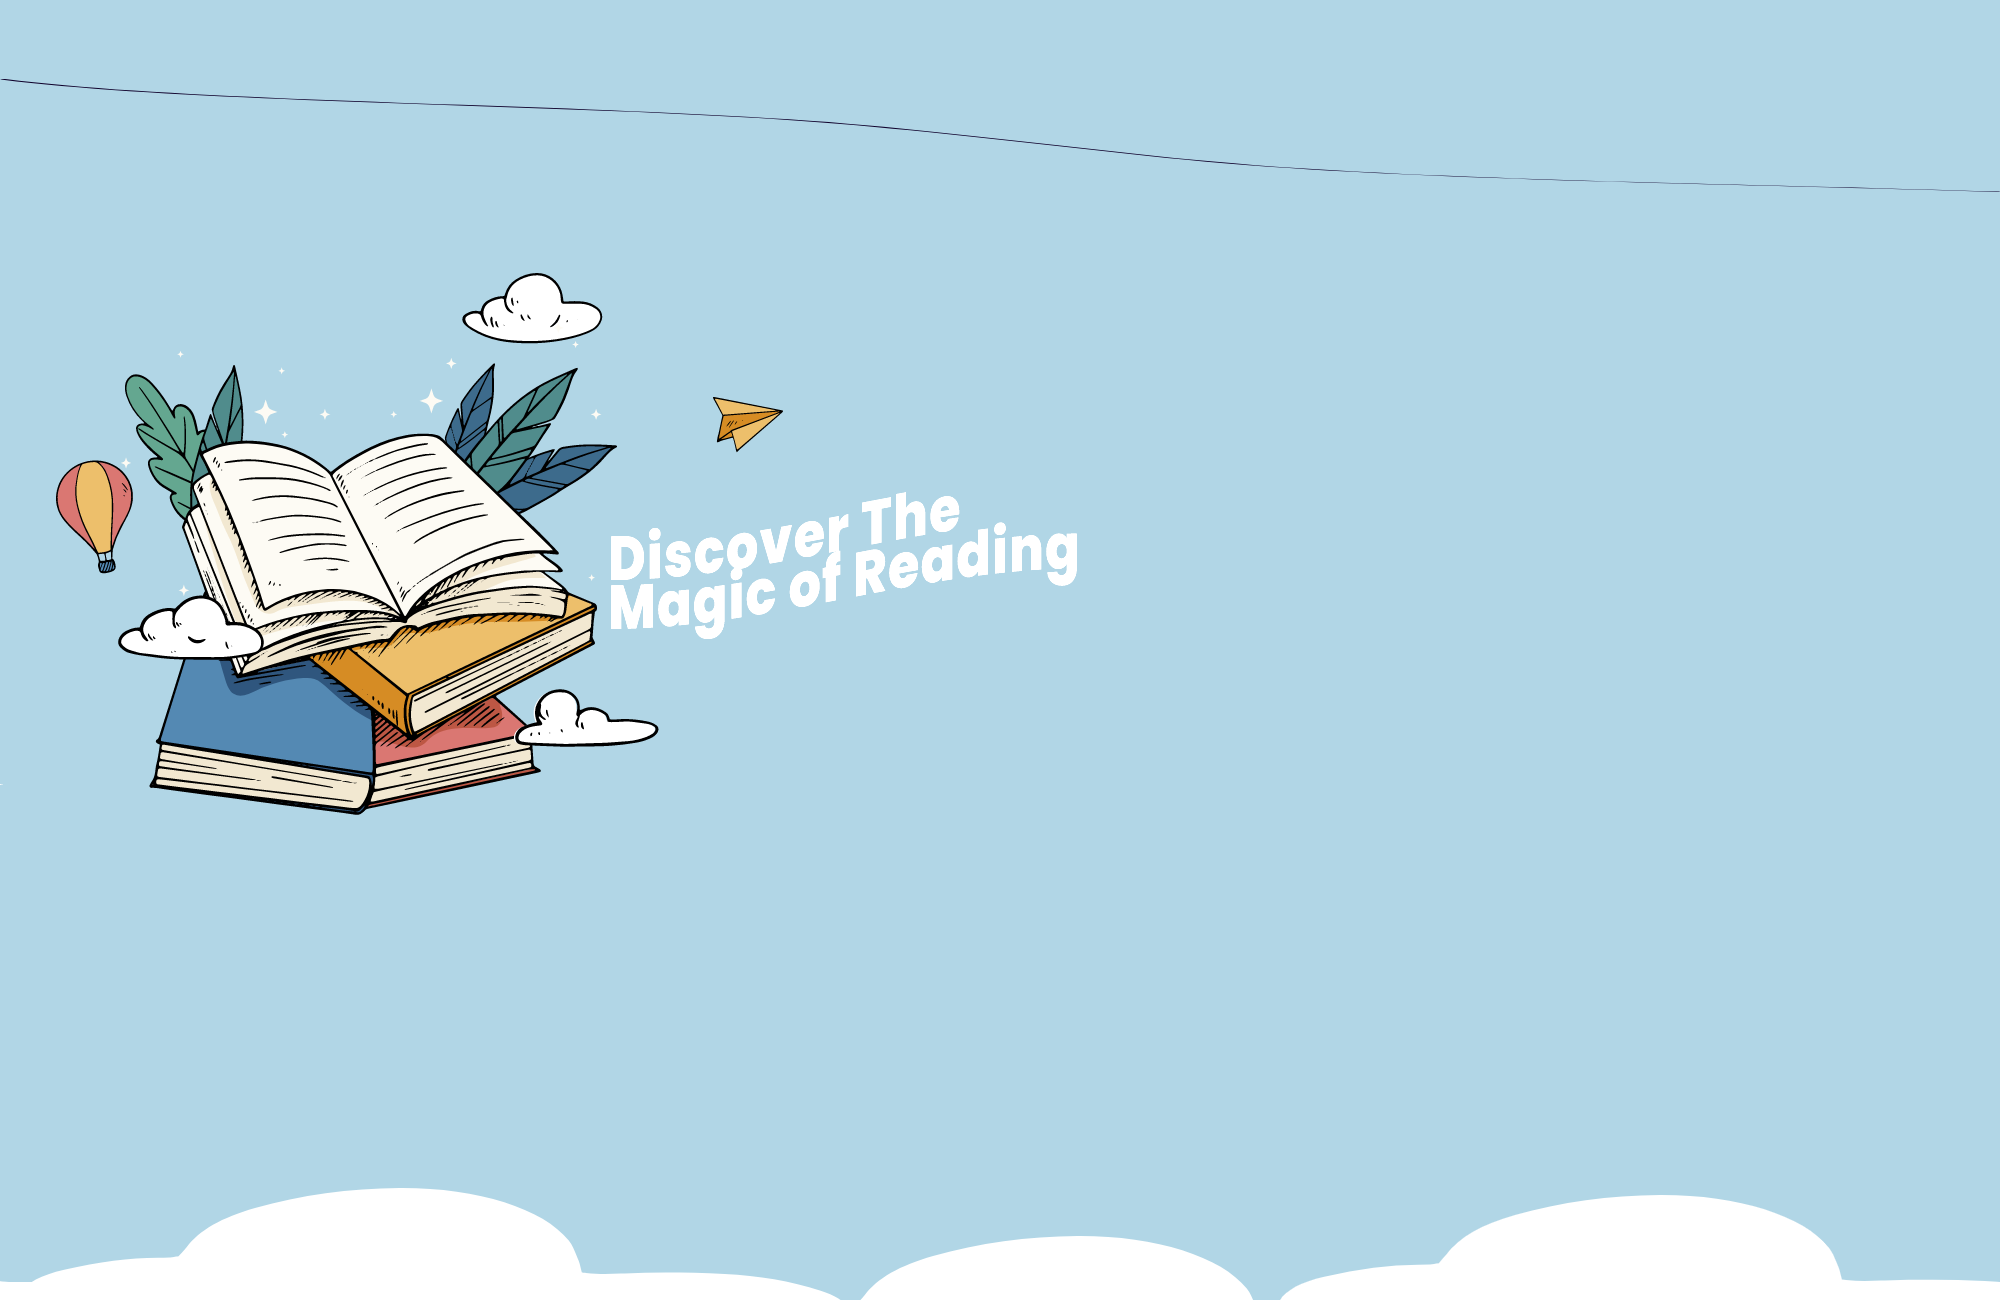
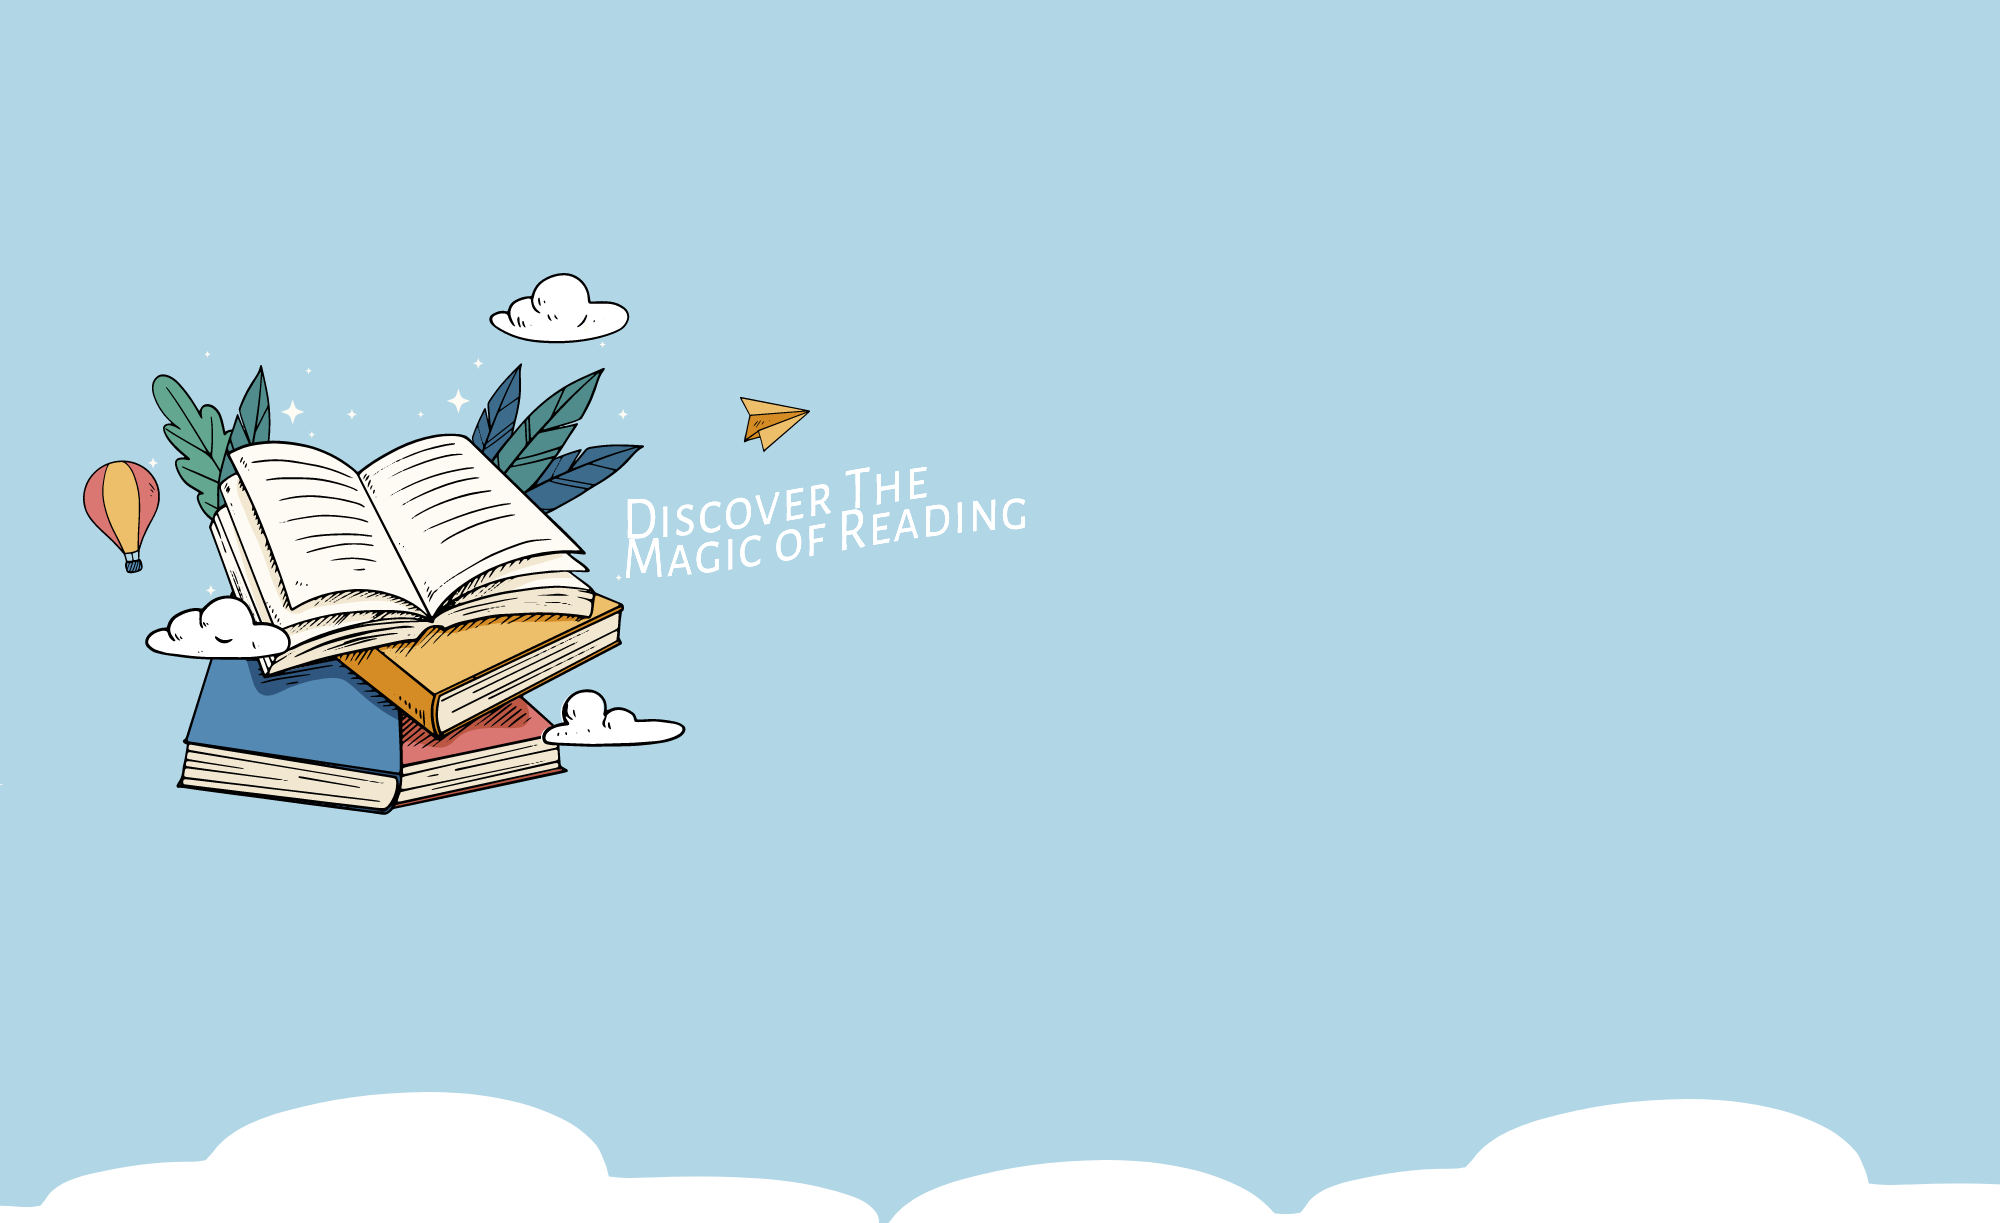
feature(landing): Display most popular categories

diff --git a/src/components/auth/RegisterComponent.jsx b/src/components/auth/RegisterComponent.jsx
@@ -185,7 +185,7 @@ export default function RegisterComponent({ parent }) {
   return parent === "home" ? (
     <div className={"d-flex flex-column min-vh-100 "}>
       <div className="row  justify-content-center  align-items-baseline">
-      <div className="col-md-2 mt-2" style={{ textAlign:"right" }}>
+      <div className="col-md-3 mt-2" style={{ textAlign:"right" }}>
           <label>First name</label>
         </div>
         <div className="col-md-6 mt-2">
@@ -201,7 +201,7 @@ export default function RegisterComponent({ parent }) {
         </div>
       </div>
       <div className="row justify-content-center mt-1 align-items-baseline">
-        <div className="col-md-2" style={{ textAlign:"right" }}>
+        <div className="col-md-3" style={{ textAlign:"right" }}>
           <label >
             Last name
           </label>
@@ -218,8 +218,8 @@ export default function RegisterComponent({ parent }) {
           />
         </div>
       </div>
-      <div className="row justify-content-center mt-1 align-items-baseline">
-        <div style={{ textAlign:"right" }} className="col-md-2">
+      <div className="row justify-content-center mt-1 mr-1 align-items-baseline">
+        <div style={{ textAlign:"right" }} className="col-md-3">
           <label >Email</label>
         </div>
         <div className="col-md-6 ">
@@ -235,7 +235,7 @@ export default function RegisterComponent({ parent }) {
         </div>
       </div>
       <div className="row justify-content-center mt-1 align-items-baseline">
-      <div className="col-md-2" style={{ textAlign:"right" }}>
+      <div className="col-md-3" style={{ textAlign:"right" }}>
           <label>Password</label>
         </div>
         <div className="col-md-6 ">
@@ -251,7 +251,7 @@ export default function RegisterComponent({ parent }) {
         </div>
       </div>
       <div className="row justify-content-center mt-1 align-items-baseline">
-        <div className="col-md-2"></div>
+        <div className="col-md-3"></div>
         <div className="col-md-6 ">
           <input
             type="password"
@@ -265,7 +265,7 @@ export default function RegisterComponent({ parent }) {
         </div>
       </div>
       <div className="row justify-content-center mt-1 align-items-baseline">
-      <div className="col-md-2" style={{ textAlign:"right" }}>
+      <div className="col-md-3" style={{ textAlign:"right" }}>
           <label>Gender</label>
         </div>
         <div className="col-md-6 ">
@@ -283,7 +283,7 @@ export default function RegisterComponent({ parent }) {
         </div>
       </div>
       <div className="row justify-content-center mt-1 align-items-baseline">
-      <div className="col-md-2" style={{ textAlign:"right" }}>
+      <div className="col-md-3" style={{ textAlign:"right" }}>
           <label>Avatar</label>
         </div>
         <div className="col-md-6 ">
@@ -299,8 +299,8 @@ export default function RegisterComponent({ parent }) {
         </div>
       </div>
       <div className="row justify-content-center mt-3 align-items-baseline">
-        <div className="col-md-5"></div>
-        <div className="col-md-6 ">
+        <div className="col-md-6"></div>
+        <div className="col-md-6 mb-3">
           <button
             type="submit"
             className="btn align-self-center"
@@ -318,9 +318,9 @@ export default function RegisterComponent({ parent }) {
         </div>
       </div>
       <div className="row justify-content-center mt-1 align-items-baseline">
-      <div className="col-md-2" style={{ textAlign:"right" }}>
+      <div className="col-md-3" style={{ textAlign:"right" }}>
         </div>
-        <div className="col-md-10 ">
+        <div className="col-md-8 ">
       {!userErrors.firstname.isValid && userErrors.firstname.isTouched && (
         <p style={{ textAlign: "center", margin: "0", color: "#711D1D" }}>
           {" "}

diff --git a/src/components/landingPage/categories.jsx b/src/components/landingPage/categories.jsx
@@ -1,20 +1,59 @@
+import Button from "@material-ui/core/Button";
 import { makeStyles } from "@material-ui/core/styles";
-import { useEffect } from "react";
-import { useHistory } from "react-router-dom";
+import { useEffect, useState } from "react";
+import { Link } from "react-router-dom";
+import { CategoryService } from "../../API/CategoryServices";
+
 export default function Categories() {
-  const history = useHistory();
-
-  const categorie = [{ label: "Romance"  },{ label: "Horror"  },{ label: "Comedy"  }]
+  const [categories , setCategories] = useState([]);
   useEffect(() => {
-
+        CategoryService.getPopular().then((cat)=>setCategories(cat.data));
   }, []);
 
   const useStyles = makeStyles((theme) => ({
+    flex: {
+      display: "flex",
+      flexWrap: "wrap",
+      justifyContent: "space-around",
+      alignItems: "baseline",
+      alignContent: "space-between",
+      marginTop: "4rem",
+    },
+    category: {
+      width: "20rem",
+      height: "7rem",
+      textAlign: "center",
+      marginBottom: "2rem",
+      lineHeight: "7rem",
+    },
+    label: {
+      fontSize: "2rem",
+      textDecoration: "none",
+      color: "black",
+      fontSize : "1.5rem",
+      "&:hover": {
+        color: "#ac5d59",
+      },
+    },
   }));
   const classes = useStyles();
 
   return (
-    <div className={classes.header}>
+    <div style={{ paddingTop: "4.0rem" }}>
+      <h1 style={{ textAlign: "center" }}>Explore our Categories</h1>
+      <div className={classes.flex}>
+        {categories.map((value, index) => {
+          return (
+            <div className={classes.category} key={index}>
+              <Button style={{padding: "1rem" , width: "15rem"}} variant="outlined" >
+                <Link className={classes.label} to={"/categoty/"+value._id._id}>
+                  {value._id.label}
+                </Link>
+              </Button>
+            </div>
+          );
+        })}
+      </div>
     </div>
   );
 }

diff --git a/src/components/landingPage/landingComponent.jsx b/src/components/landingPage/landingComponent.jsx
@@ -1,7 +1,7 @@
 import { makeStyles } from "@material-ui/core/styles";
 import { useContext, useEffect } from "react";
 import { useHistory } from "react-router-dom";
-import Background from "../../assets/e.png";
+import headerBg from "../../assets/e.png";
 import logo from "../../assets/logo.png";
 import { authContext } from "../../contexts/authContext";
 import LoginComponent from "../auth/LoginComponent";
@@ -34,7 +34,7 @@ export default function LandingComponent({ parent = "login" }) {
       overflow: "hidden",
     },
     header: {
-      backgroundImage: `url(${Background})`,
+      backgroundImage: `url(${headerBg})`,
       backgroundSize: "cover",
       backgroundRepeat: "no-repeat",
       width: "100%",
@@ -43,7 +43,11 @@ export default function LandingComponent({ parent = "login" }) {
     regHeader: {
       color:"black",
       textAlign:"center",
-      marginTop: '5rem'
+      marginTop: '5rem',
+      marginLeft: "3rem"
+    },
+    categories:{
+      backgroundColor:"white"
     }
   }));
   const classes = useStyles();

diff --git a/src/index.css b/src/index.css
@@ -1,6 +1,5 @@
 @import url('https://fonts.googleapis.com/css2?family=Nunito&display=swap');
-
-
+@import url('https://fonts.googleapis.com/css2?family=Sora&display=swap');
 body {
   margin: 0;
   font-family: -apple-system, BlinkMacSystemFont, 'Segoe UI', 'Roboto', 'Oxygen',
@@ -10,6 +9,7 @@ body {
   -moz-osx-font-smoothing: grayscale;
   /*overflow: hidden;*/
   box-sizing: border-box;
+  background-color: white;
 }
 
 code {
@@ -18,5 +18,4 @@ code {
 }
 
 *{
-  font-family: 'Nunito', sans-serif;
-}
+  font-family: 'Sora', sans-serif;}

diff --git a/src/API/urls.js b/src/API/urls.js
@@ -13,3 +13,7 @@ export const BOOK_API = {
     rate: (bookId) => `${BASE_URL}/books/${bookId}/rate`,
     shelve: (bookId) => `${BASE_URL}/books/${bookId}/shelve`
 };
+
+export const CATEGORY_API = {
+    popular: () => `${BASE_URL}/category/popular`,
+};

diff --git a/src/API/CategoryServices.js b/src/API/CategoryServices.js
@@ -1,0 +1,8 @@
+import axios from 'axios';
+import { CATEGORY_API } from "./urls";
+
+export const CategoryService =  {
+  getPopular() {
+    return axios.get( CATEGORY_API.popular());
+  }
+};
